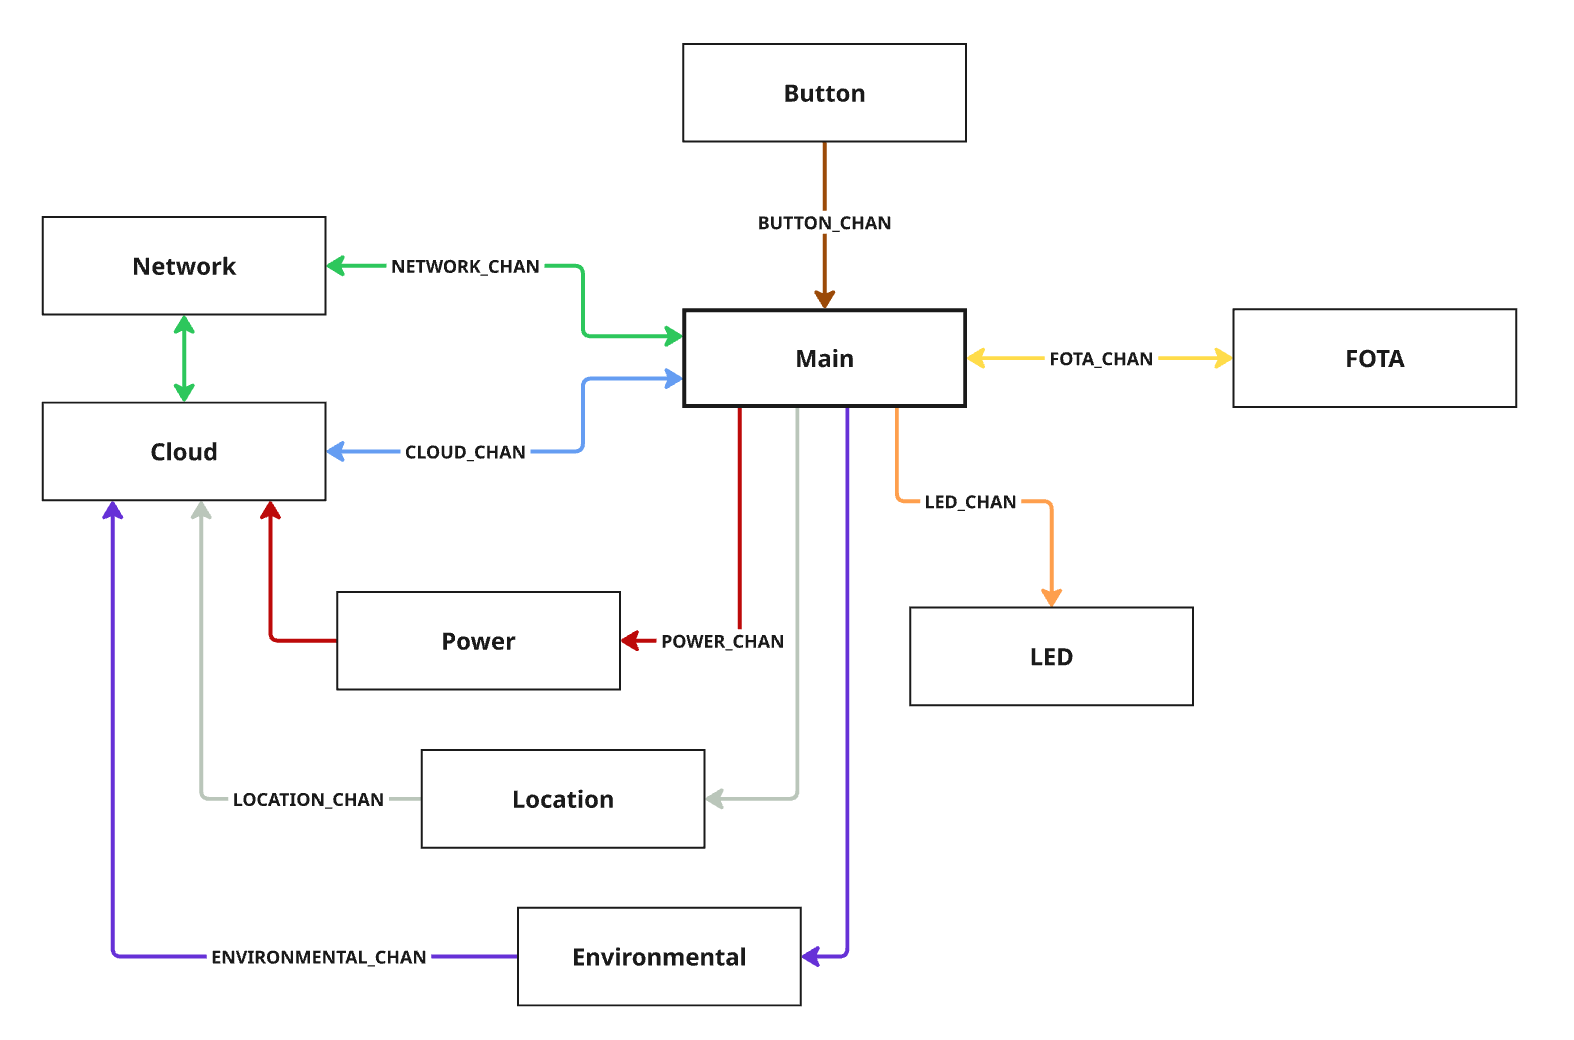
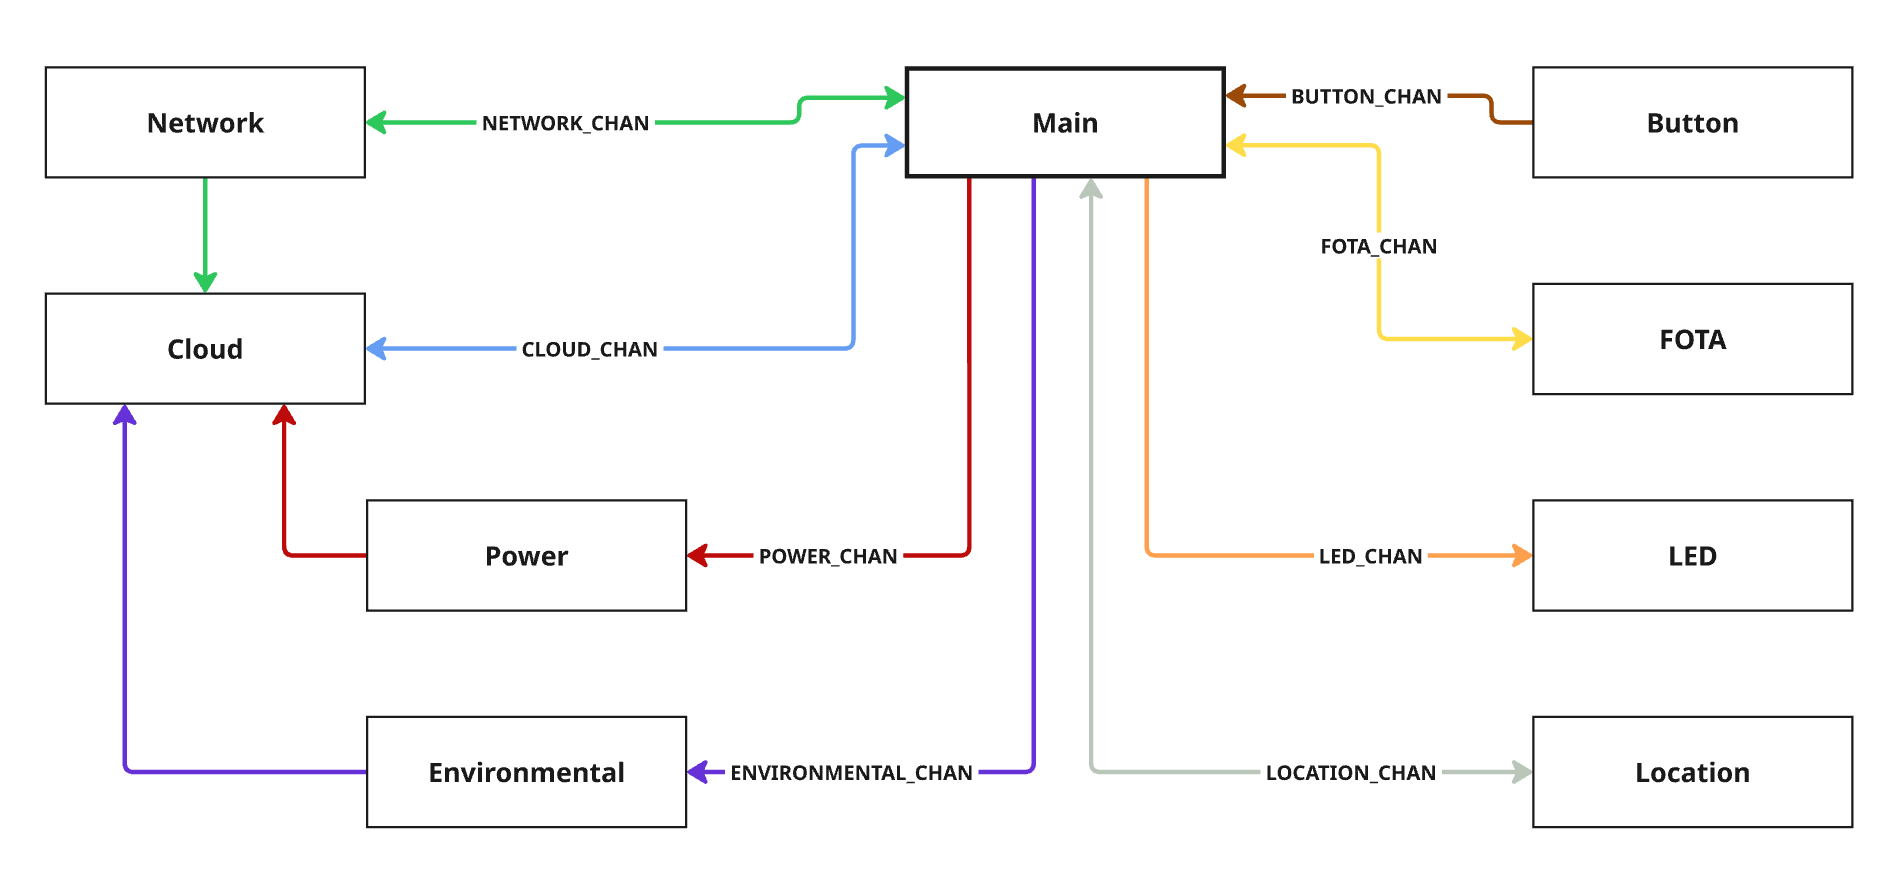
docs: Update README with some more detailed
Add some more details to the docs landing page when it comes
to template overview, architecture and quick start.

diff --git a/README.md b/README.md
@@ -1,57 +1,132 @@
 # Asset Tracker Template
 
-#### Oncommit:
+**Oncommit**
+
 [![Target tests](https://github.com/nrfconnect/Asset-Tracker-Template/actions/workflows/build-and-target-test.yml/badge.svg)](https://github.com/nrfconnect/Asset-Tracker-Template/actions/workflows/build-and-target-test.yml)
 
-#### Nightly:
+**Nightly**
+
 [![Target_tests](https://github.com/nrfconnect/Asset-Tracker-Template/actions/workflows/build-and-target-test.yml/badge.svg?event=schedule)](https://github.com/nrfconnect/Asset-Tracker-Template/actions/workflows/build-and-target-test.yml?query=branch%3Amain+event%3Aschedule)
 [![Power Consumption Badge](https://img.shields.io/endpoint?url=https://nrfconnect.github.io/Asset-Tracker-Template/power_badge.json)](https://nrfconnect.github.io/Asset-Tracker-Template/power_measurements_plot.html)
-
 
 [![RAM Usage thingy91x](https://img.shields.io/endpoint?url=https://nrfconnect.github.io/Asset-Tracker-Template/ram_badge.json)](https://nrfconnect.github.io/Asset-Tracker-Template/ram_history_plot.html)
 [![Flash Usage thingy91x](https://img.shields.io/endpoint?url=https://nrfconnect.github.io/Asset-Tracker-Template/flash_badge.json)](https://nrfconnect.github.io/Asset-Tracker-Template/flash_history_plot.html)
 
 ## Overview
 
-**NOTE** If you are not familiar with the nRF91 series SiPs and cellular in general it's recommended to go throught the [Nordic Developer Academy Cellular Fundaments Course](https://academy.nordicsemi.com/courses/cellular-iot-fundamentals)
+The Asset Tracker Template is a modular application framework designed for nRF91-based IoT devices. It is built on the nRF Connect SDK and leverages Zephyr's features to provide a structured, event-driven system. The framework is intended for battery-powered IoT applications and supports features like cloud connectivity, location tracking, and sensor data collection.
 
-The Asset Tracker Template implements a modular application framework for nRF91-based IoT devices.
-The application is built on nRF Connect SDK and uses a combination of state machines and message-based inter-module communication.
-It is intended to be a framework for developing asset tracking applications, but can be customized for other use cases as well.
-We have not targeted a specific use-case with this template, but rather a set of features that are common in asset tracking applications, and left it up to the user to decide how to use, modify, or extend the template to fit their needs.
-The ``main.c`` file contains the main module of the application, where the business logic and control over the other modules is implemented, and is a good starting point for understanding how the application works.
-This is also the natural place to start when customizing the application for a specific use-case.
+The template is organized into independent modules, each responsible for a specific functionality, such as managing network connectivity, handling cloud communication, or collecting environmental data. These modules communicate through a message-based system, ensuring loose coupling and maintainability.
 
-The template is open-source for a reason, and we encourage users to contribute back to the project with improvements, bug fixes, or new features.
+The template is suitable for use cases such as asset tracking, environmental monitoring, and other IoT applications requiring modularity, configurability, and efficient power management.
 
-## Key concepts
+It is designed to be easily customizable and extensible, allowing developers to adapt it to their specific needs. The framework includes tests and testing infrastructure, enabling automated testing and continuous integration using GitHub Actions.
 
-* **Modular design**: The application is divided into modules, each responsible for a specific feature or functionality.
-* **State machines**: Each module, where applicable, has its own state machine, which defines the behavior of the module. The state machines are implemented using Zephyr's [State Machine Framework](https://docs.nordicsemi.com/bundle/ncs-3.0.0-preview1/page/zephyr/services/smf/index.html).
-* **Message-based communication**: Modules communicate with each other by sending messages using [zbus](https://docs.nordicsemi.com/bundle/ncs-latest/page/zephyr/services/zbus/index.html), a message bus library for Zephyr.
-* **Configuration options**: The application can be configured using Kconfig options to enable or disable features, set parameters, and more.
-* **Designed for low-power operation**: The application is designed to be power-efficient, with features like LTE Power Saving Mode (PSM) enabled by default.
+**Supported Hardware**:
 
+* [Thingy:91 X](https://www.nordicsemi.com/Products/Development-hardware/Nordic-Thingy-91-X)
+* [nRF9151 DK](https://www.nordicsemi.com/Products/Development-hardware/nRF9151-DK)
 
-## Table of Contents
+If you are not familiar with the nRF91 series SiPs and cellular in general, it's recommended to go through the [Nordic Developer Academy Cellular Fundamentals Course](https://academy.nordicsemi.com/courses/cellular-iot-fundamentals) to get a better understanding of the technology and how to customize the template for your needs.
 
-### Common
-- [Getting Started](docs/common/getting_started.md)
-- [Architecture](docs/common/architecture.md)
-- [Configurability](docs/common/configurability.md)
-- [Customization](docs/common/customization.md)
-- [Location Services](docs/common/location_services.md)
-- [Test and CI Setup](docs/common/test_and_ci_setup.md)
-- [nRFCloud FOTA](docs/common/nrfcloud_fota.md)
-- [Tooling and Troubleshooting](docs/common/tooling_troubleshooting.md)
+## System Architecture
+
+The template consists of the following modules:
+
+* ***Main Module**: Central coordinator implementing business logic and control flow
+* ***Network Module**: Manages LTE connectivity and tracks network status
+* ***Cloud Module**: Handles communication with nRF Cloud using CoAP
+* ***Location Module**: Provides location services using GNSS, Wi-Fi and cellular positioning
+* ***LED Module**: Controls RGB LED for visual feedback on Thingy:91 X
+* ***Button Module**: Handles button input for user interaction
+* ***FOTA Module**: Manages firmware over-the-air updates
+* ***Environmental Module**: Collects environmental sensor data
+* ***Power Module**: Monitors battery status and provides power management
+
+The image below illustrates the system architecture and the interaction between the modules.
+The zbus channels are indicated with colored arrows showing the direction of communication, with the arrows pointing in to the module that is subscribing to the respective channel.
+
+![System overview](docs/images/system_overview.png)
+
+### Key Technical Features
+
+1. **State Machine Framework (SMF)**
+   * Each module implements its own state machine using Zephyr's [State Machine Framework](https://docs.nordicsemi.com/bundle/ncs-latest/page/zephyr/services/smf/index.html)
+   * Run-to-completion model ensures predictable behavior
+
+2. **Message-Based Communication (zbus)**
+   * Modules communicate through dedicated [zbus](https://docs.nordicsemi.com/bundle/ncs-latest/page/zephyr/services/zbus/index.html) channels
+
+3. **Modular Architecture**
+   * Separation of concerns between modules
+   * Each module that performs blocking operations runs in its own thread and use zbus message subscribers to queue messages
+   * Non-blocking modules use zbus listeners for immediate processing
+
+4. **Power Optimization**
+   * LTE Power Saving Mode (PSM) enabled by default
+   * Configurable power-saving features
+
+### Customization and Extension
+
+The framework is designed to be customizable and intended for developers to adapt it to their specific needs. Key points for customization include:
+
+* The `main.c` file contains the central business logic and is the primary customization point
+* Modules can be enabled/disabled via Kconfig options
+* New modules can be added following the established patterns
+* Existing modules can be modified to suit specific requirements
+
+While designed for asset tracking applications, the template's modular architecture makes it adaptable for various IoT use cases. The template is open-source, and we encourage contributions of improvements, bug fixes, or new features.
+
+## Quick Start
+
+### Prerequisites
+
+* nRF Connect SDK development environment ([Getting started guide](https://docs.nordicsemi.com/bundle/ncs-latest/page/nrf/installation.html))
+
+### Build and Run
+
+1. Initialize workspace:
+
+```shell
+# Launch toolchain
+nrfutil toolchain-manager launch --
+
+# Initialize workspace
+west init -m https://github.com/nrfconnect/Asset-Tracker-Template.git --mr main asset-tracker-template
+cd asset-tracker-template/app
+west update
+```
+
+2. Build and flash:
+
+```shell
+west build -p -b thingy91x/nrf9151/ns
+west thingy91x-dfu  # For Thingy91X serial bootloader
+# Or if you use an external debugger (ensure that nRF9151 is selected with the switch on the Thingy:91 X)
+west flash --erase
+```
+
+For detailed setup including nRF Cloud provisioning and advanced build configurations, see [Getting Started](docs/common/getting_started.md).
+
+## Further reading
+
+* [Getting Started](docs/common/getting_started.md)
+* [Architecture](docs/common/architecture.md)
+* [Configurability](docs/common/configurability.md)
+* [Customization](docs/common/customization.md)
+* [Location Services](docs/common/location_services.md)
+* [Test and CI Setup](docs/common/test_and_ci_setup.md)
+* [nRFCloud FOTA](docs/common/nrfcloud_fota.md)
+* [Tooling and Troubleshooting](docs/common/tooling_troubleshooting.md)
 
 ### Modules
-- [Main](docs/modules/main.md)
-- [Location](docs/modules/location.md)
-- [LED](docs/modules/led.md)
-- [FOTA](docs/modules/fota.md)
-- [Button](docs/modules/button.md)
-- [Cloud](docs/modules/cloud.md)
-- [Environmental](docs/modules/environmental.md)
-- [Network](docs/modules/network.md)
-- [Power](docs/modules/power.md)
+
+* [Button](docs/modules/button.md)
+* [Cloud](docs/modules/cloud.md)
+* [Environmental](docs/modules/environmental.md)
+* [FOTA](docs/modules/fota.md)
+* [LED](docs/modules/led.md)
+* [Location](docs/modules/location.md)
+* [Main](docs/modules/main.md)
+* [Network](docs/modules/network.md)
+* [Power](docs/modules/power.md)
